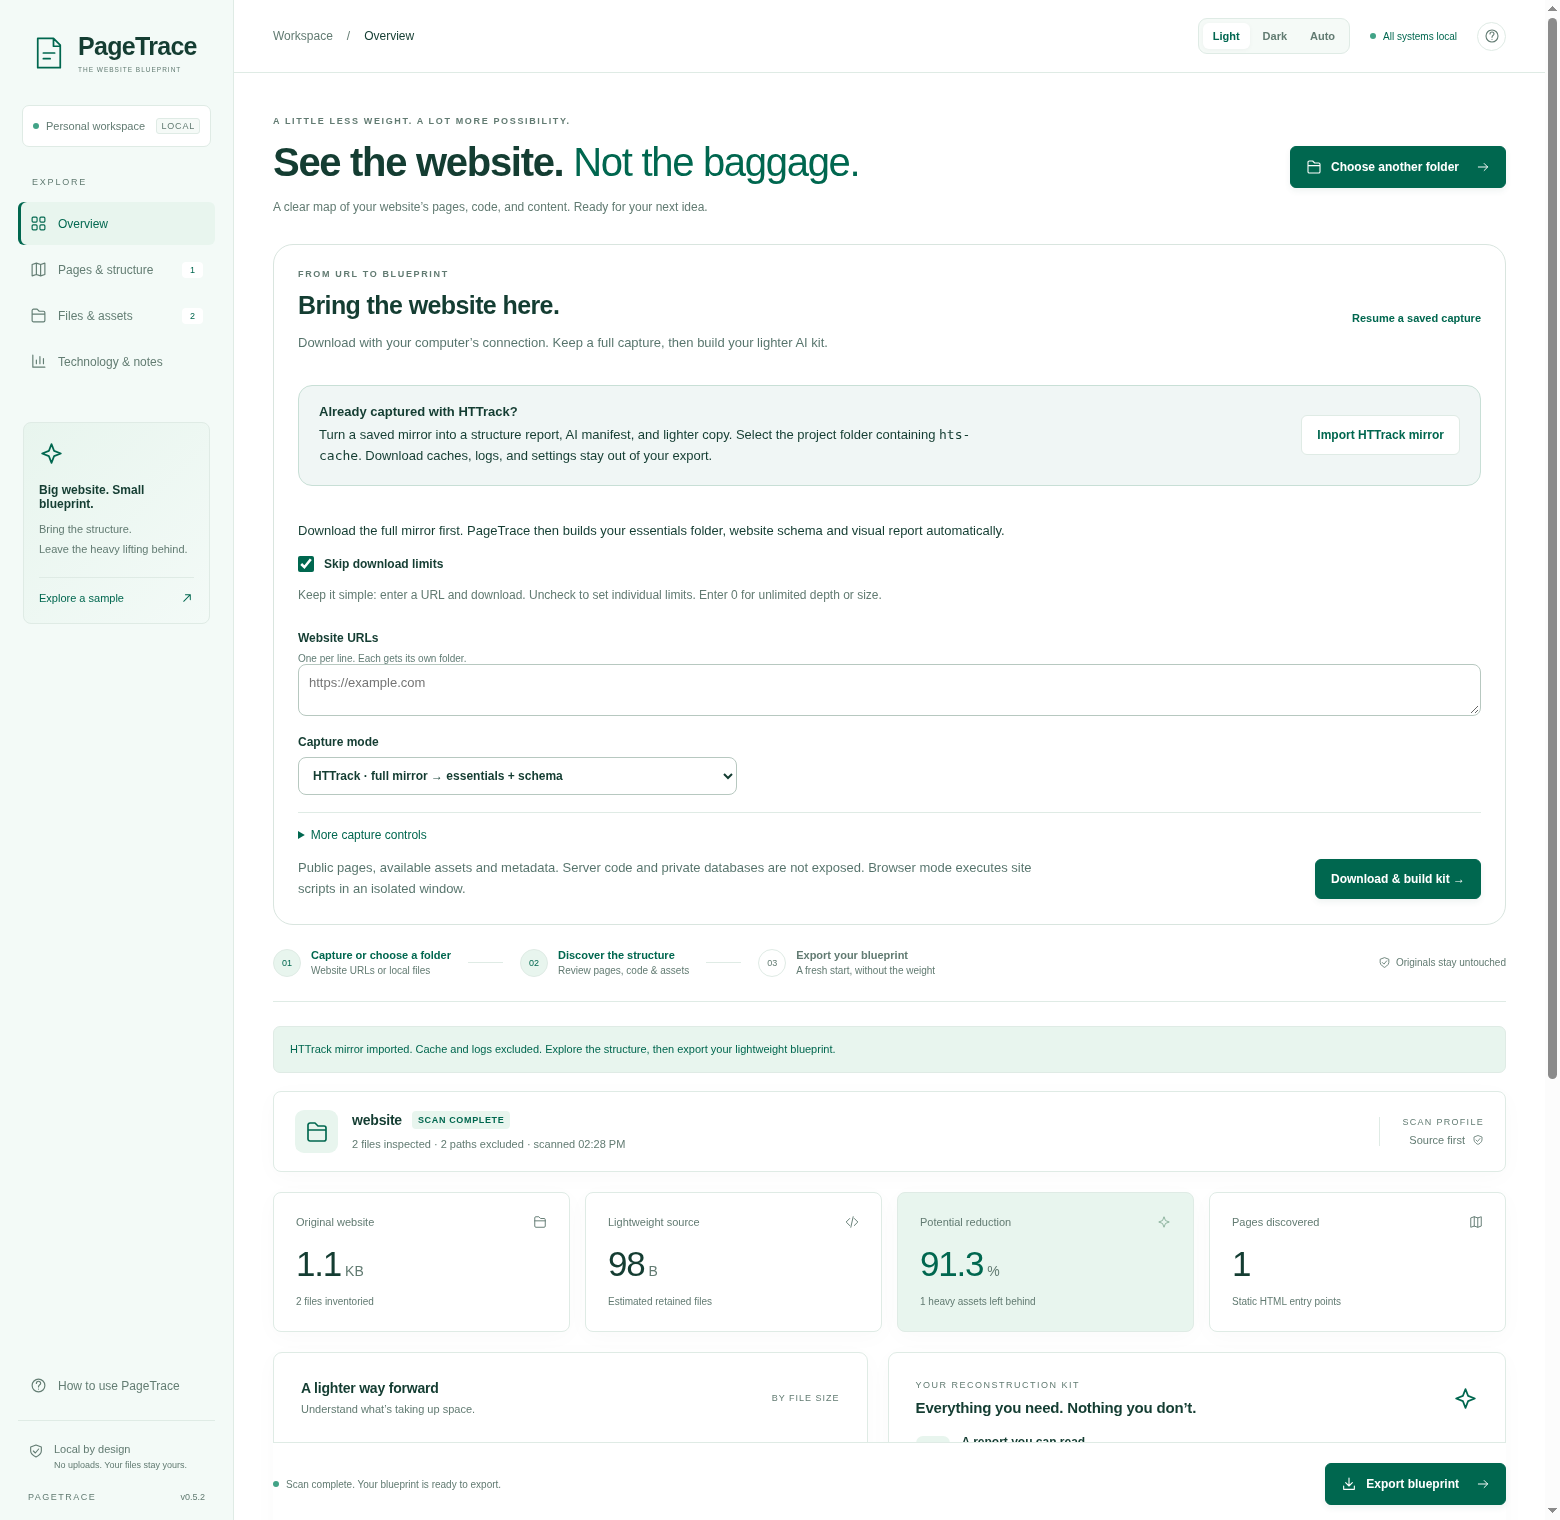
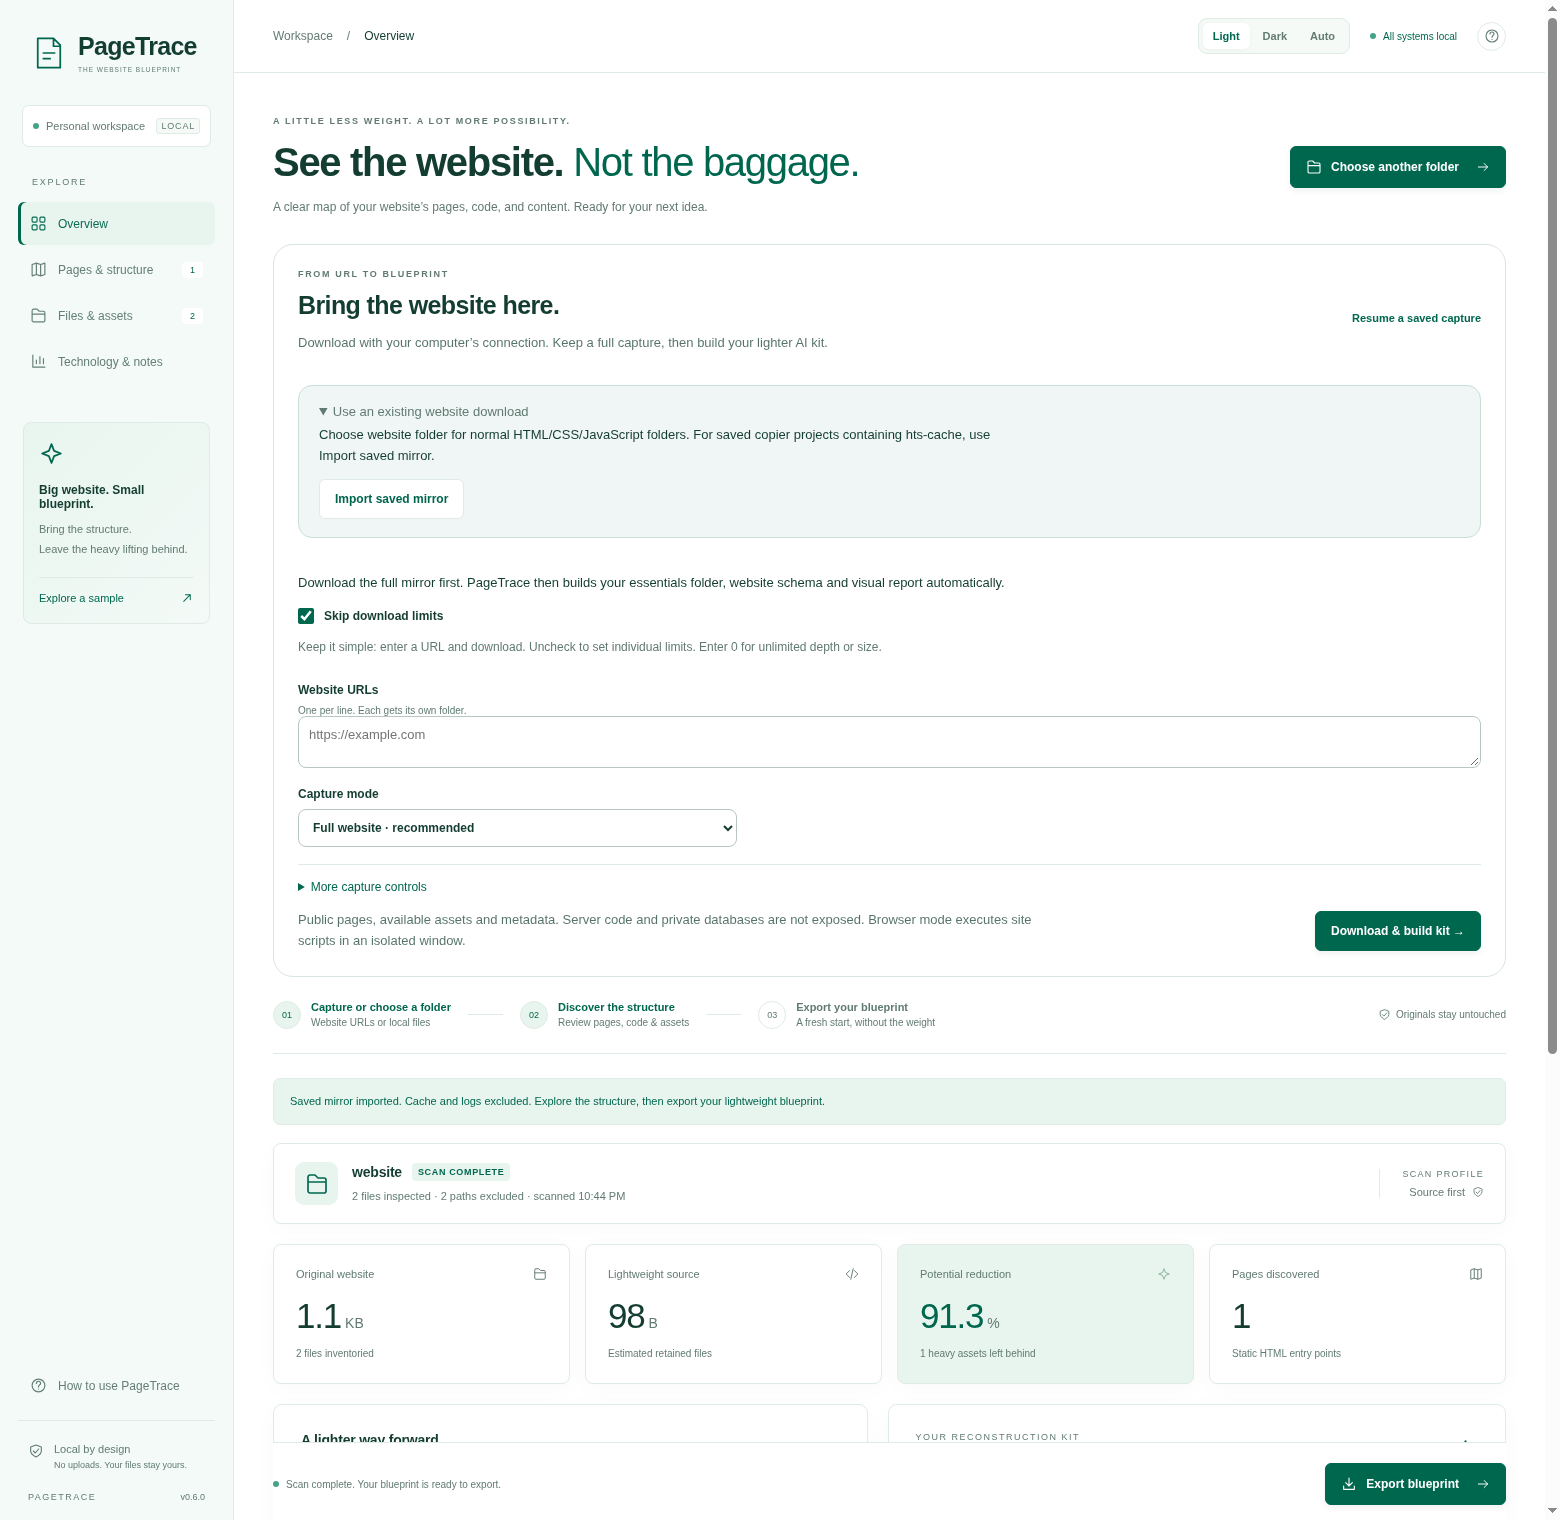
Refresh self-contained capture screenshots and document verified Windows release

diff --git a/docs/CAPTURE.md b/docs/CAPTURE.md
@@ -1,6 +1,6 @@
-# Capture websites with PageTrace 0.4
+# Capture websites with PageTrace
 
-**PageTrace 0.5:** the default **HTTrack** mode runs the bundled native engine and automatically produces the essentials folder, schema, SVG diagram and report. Its options and resume behavior are documented in [HTTRACK.md](HTTRACK.md). The implementation details and limits below describe the built-in Fast/Browser engines.
+The default **Full website** mode includes its download engine inside PageTrace and automatically produces the essentials folder, schema, SVG diagram and report. No separate application, executable selection or terminal step is required. Its options and resume behavior are documented in [HTTRACK.md](HTTRACK.md). The implementation details and limits below describe the built-in Fast/Browser engines.
 
 
 PageTrace can now download public websites before analyzing them. All capture traffic uses the desktop computer's internet connection. No PageTrace crawling server, Vercel function or cloud upload is required. The Windows app is the supported delivery target; a browser-only app is deferred.
@@ -12,7 +12,7 @@ PageTrace can now download public websites before analyzing them. All capture tr
 1. On Overview, paste complete HTTP(S) URLs, one per line.
 2. Choose **Fast** for linked pages and assets, or **Browser** for JavaScript-rendered HTML and discovered network resource URLs.
 3. Set the page count, link depth and stored-data budget. Under More capture controls, set file count, per-file size, delay, retries, URL include/exclude patterns and external assets.
-4. Click **Capture websites** and choose a destination. A unique project folder is created, with a separate numbered folder for each starting URL, including multiple URLs on the same host.
+4. Click **Download & build kit** and choose a destination. A unique project folder is created, with a separate numbered folder for each starting URL, including multiple URLs on the same host.
 5. Watch saved files, bytes, pages, queued URLs and current URL. **Pause capture** cancels the active request and checkpoints the queue. Use **Resume a saved capture** and select the folder containing `project.json` to continue, including after restarting the app. An in-progress response restarts from the beginning; this is file-level resume, not HTTP Range resume.
 6. Review each site's status and its `capture-report.html`. Click **Analyze & prepare AI export** for the desired site, then **Export blueprint**. The full media capture remains on disk.
 
@@ -59,7 +59,7 @@ Status **complete** means the discovered queue finished under the chosen scope. 
 
 ## HTTrack comparison and explicit omissions
 
-The design follows the core mirroring workflow described in [HTTrack's guide](https://www.httrack.com/HelpHtml/cmdguide.html), [interface documentation](https://www.httrack.com/html/step4.html), and [FAQ](https://www.httrack.com/html/faq.html). This is an independently implemented capture engine, not a bundled HTTrack distribution or a claim of CLI-option parity.
+The design follows the core mirroring workflow described in [HTTrack's guide](https://www.httrack.com/HelpHtml/cmdguide.html), [interface documentation](https://www.httrack.com/html/step4.html), and [FAQ](https://www.httrack.com/html/faq.html). The optional Fast/Browser engines are independently implemented. Full website mode uses the bundled upstream HTTrack engine; the option omissions below refer to the Fast/Browser engines.
 
 Implemented: multi-URL projects, linked-page/asset capture, scope and filters, depth/page/file/size budgets, retries, redirect handling, robots rules, local-link rewriting, persistent job resume, plus rendered DOM capture and PageTrace's AI export.
 

diff --git a/docs/ARCHITECTURE.md b/docs/ARCHITECTURE.md
@@ -2,7 +2,11 @@
 
 PageTrace is a local desktop application for **offline website analysis, HTML structure inspection, asset inventory, AI context extraction, and website reconstruction planning**. It does not run a web server or require a cloud service.
 
-## Capture stage (0.4)
+## Full website capture
+
+The default Full website mode resolves PageTrace's own runtime through `src/capture-runtime.cjs`. Windows runtime files and sizes are verified against the included manifest. `src/httrack-engine.cjs` runs the bundled upstream engine without a command shell; users never locate an external executable. After capture, the main process scans the full mirror and exports a separate essentials copy, manifest, schema, SVG diagram and HTML report. `scripts/check-capture-package.cjs` rejects incomplete Windows bundles during packaging.
+
+## Fast and Browser capture
 
 `src/capture.cjs` streams public HTTP responses, checks robots policy and redirects, discovers bounded page/asset references, checkpoints a persistent queue and produces original + rewritten mirror folders. `src/browser-capture.cjs` supplies optional rendered DOM and observed resource URLs through disposable sandboxed Electron sessions. It has no preload, Node integration, persistent credentials or granted permissions. Capturing uses the local machine's network; the local UI keeps its network-blocking content policy. See [CAPTURE.md](CAPTURE.md) for limits and output schema.
 
@@ -98,7 +102,7 @@ Desktop checks exercise actual IPC scans/exports, validation, filters, sorting, 
 npm run dist:win
 ```
 
-Builds both `PageTrace-VERSION-x64-Setup.exe` and `PageTrace-VERSION-x64-portable.exe`. Native Windows is the standard release platform. Linux cross-builds can produce the portable executable; the installer’s uninstaller-generation step requires a working Wine toolchain, which may be unavailable in a Linux container.
+Builds both `PageTrace-VERSION-x64-Setup.exe` and `PageTrace-VERSION-x64-portable.exe`. Native Windows is the standard release platform. Build the included download runtime first with `scripts/build-httrack.ps1`, as the Windows workflow does; packaging rejects missing runtime dependencies. Linux cross-builds can produce the portable executable; the installer’s uninstaller-generation step requires a working Wine toolchain, which may be unavailable in a Linux container.
 
 The **Windows executable** workflow runs native Windows tests and desktop interactions, packages the app, and publishes a GitHub Release with:
 

diff --git a/README.md b/README.md
@@ -34,11 +34,11 @@ Already have a WinHTTrack mirror? Expand **Use an existing website download** an
 
 ![Import an HTTrack mirror](docs/images/14-httrack-import.png)
 
-## New in 0.4: capture, analyze, export
+## Additional capture modes
 
 Paste multiple website URLs. Capture linked pages/assets in **Fast** mode or use **Browser** mode for sandboxed JavaScript-rendered HTML. Set page/depth/file/size limits, retries, delays and URL filters. Pause and resume a persisted project. Each site gets its own full original capture, a rewritten mirror, URL mapping and a readable failure report. Select a site to analyze and export the smaller AI kit.
 
-All crawling uses your computer's connection. No crawling server or cloud upload is required. [Read the capture guide and explicit limits](docs/CAPTURE.md). This release implements the core mirroring workflow; it does not claim every HTTrack option or complete website replay. The web app remains deferred.
+All crawling uses your computer's connection. No crawling server or cloud upload is required. [Read the capture guide and explicit limits](docs/CAPTURE.md). Fast and Browser are optional alternatives to the included Full website engine. Capturing a website cannot recover its private server code or database.
 
 ## Light or dark. Always local.
 
@@ -52,7 +52,7 @@ Choose **Light**, **Dark**, or **Auto** in the top bar. Your selection is rememb
 
 ## Three steps to a fresh start
 
-1. **Capture or choose a folder.** Enter URLs and capture them, then select a site to analyze, or select the extracted root of your local website. Set the large-binary cutoff before scanning if needed.
+1. **Capture or choose a folder.** Enter URLs and click **Download & build kit** for automatic Full website capture, analysis and export. Or choose the root of an existing local website. Set the large-binary cutoff before scanning if needed.
 2. **Discover the structure.** Review the space breakdown, nested HTML layouts, headings, technologies, and file relationships. Search and filter the inventory; inspect individual files.
 3. **Export your blueprint.** Choose a folder outside the original. A new, unique output folder contains a readable HTML report, an AI-ready JSON manifest, a lightweight source copy, and a rebuilding brief.
 

diff --git a/docs/RELEASE-VALIDATION-0.6.0.md b/docs/RELEASE-VALIDATION-0.6.0.md
@@ -1,0 +1,16 @@
+# PageTrace 0.6.0 validation
+
+Source: `8dcd00a681da5d9e544e529fa6097d61f65da892`.
+
+[Native Windows release checks](https://github.com/Sam4d/Manifest/actions/runs/40035852256).
+
+- 27 unit/regression tests cover scanning/export, capture limits and resume, runtime resolution and rejection of incomplete Windows bundles.
+- Real Electron interaction checks cover scanning, export, sample completion, search, appearance, saved-mirror import and browser capture.
+- The included native engine downloads a local website fixture with media; the automatic analysis/export pipeline generates the essentials copy, schema, diagram and report.
+- A black-box check launches the app, completes its sample scan, then enters a URL and operates the actual native Windows output-folder dialog. It verifies JavaScript retention, media omission in the derived kit, multiple schema pages, SVG output and the HTML report's diagram.
+- The black-box check runs before packaging and against both the actual packaged Windows app and portable executable. It uses no production test bypass and no external executable picker.
+- The packaged download component is also exercised directly before publication. Runtime dependencies are verified against their file manifest; incomplete bundles fail packaging.
+
+These checks cover deterministic local fixtures on the hosted Windows runner. They establish the tested capture-to-kit workflow, not complete replay of every website or exposure of every upstream engine setting. Full website uses the included HTTrack engine, with its license and corresponding source shipped in the release.
+
[1 lines of base64/hex data omitted]
